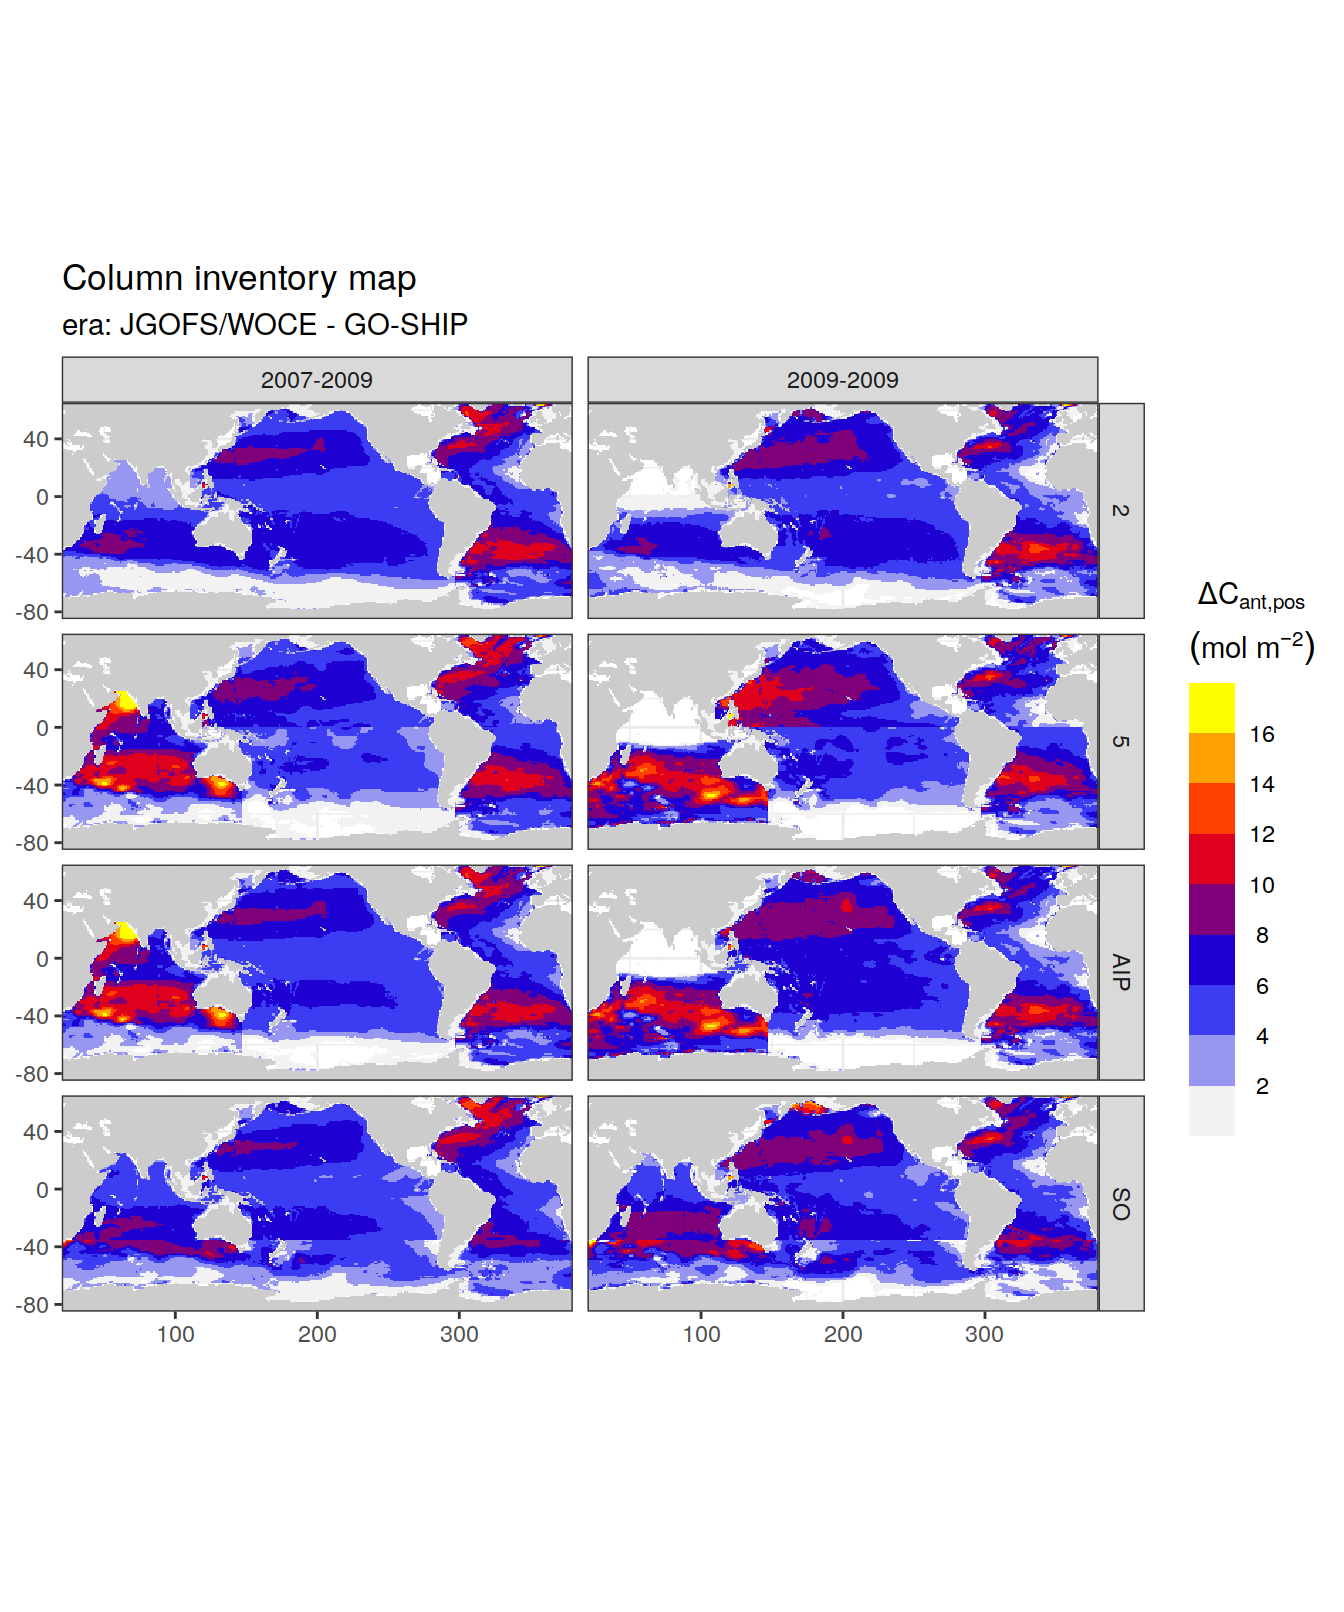
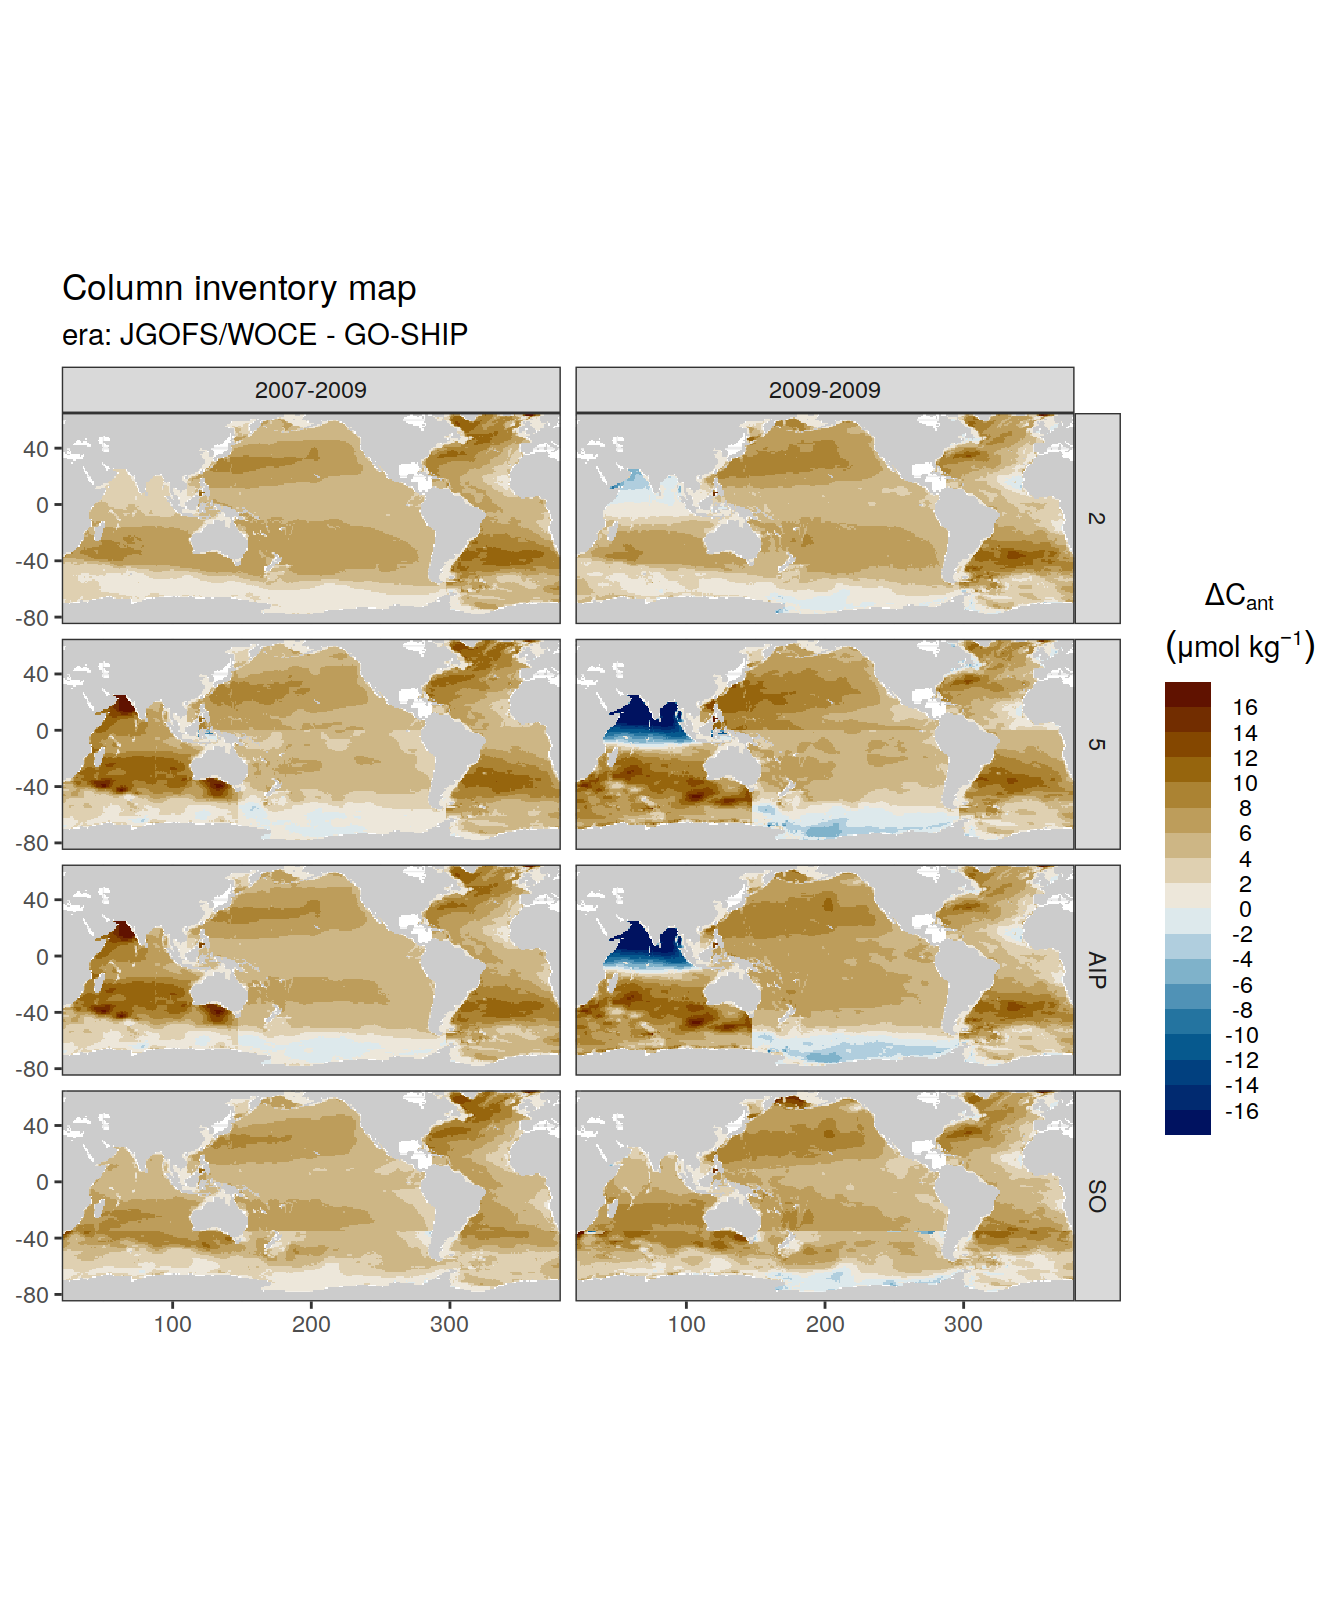
Build site.

diff --git a/docs/column_inventories.html b/docs/column_inventories.html
@@ -545,16 +545,16 @@ This reproducible <a href="http://rmarkdown.rstudio.com">R Markdown</a> analysis
 <div class="panel panel-default">
 <div class="panel-heading">
 <p class="panel-title">
-<a data-toggle="collapse" data-parent="#workflowr-checks" href="#strongRepositoryversionstrongahrefhttpsgithubcomjensdanielmuelleremlrobsanalysistreef642ef26fc0191e10773c02be67469985cc2322ftargetblankf642ef2a"> <span class="glyphicon glyphicon-ok text-success" aria-hidden="true"></span> <strong>Repository version:</strong> <a href="https://github.com/jens-daniel-mueller/emlr_obs_analysis/tree/f642ef26fc0191e10773c02be67469985cc2322f" target="_blank">f642ef2</a> </a>
+<a data-toggle="collapse" data-parent="#workflowr-checks" href="#strongRepositoryversionstrongahrefhttpsgithubcomjensdanielmuelleremlrobsanalysistree83f3e37e18646a8ca3899464edafb7c6eea59027targetblank83f3e37a"> <span class="glyphicon glyphicon-ok text-success" aria-hidden="true"></span> <strong>Repository version:</strong> <a href="https://github.com/jens-daniel-mueller/emlr_obs_analysis/tree/83f3e37e18646a8ca3899464edafb7c6eea59027" target="_blank">83f3e37</a> </a>
 </p>
 </div>
[2 lines of base64/hex data omitted]
 <div class="panel-body">
 <p>
 Great! You are using Git for version control. Tracking code development and connecting the code version to the results is critical for reproducibility.
 </p>
 <p>
-The results in this page were generated with repository version <a href="https://github.com/jens-daniel-mueller/emlr_obs_analysis/tree/f642ef26fc0191e10773c02be67469985cc2322f" target="_blank">f642ef2</a>. See the <em>Past versions</em> tab to see a history of the changes made to the R Markdown and HTML files.
+The results in this page were generated with repository version <a href="https://github.com/jens-daniel-mueller/emlr_obs_analysis/tree/83f3e37e18646a8ca3899464edafb7c6eea59027" target="_blank">83f3e37</a>. See the <em>Past versions</em> tab to see a history of the changes made to the R Markdown and HTML files.
 </p>
 <p>
 Note that you need to be careful to ensure that all relevant files for the analysis have been committed to Git prior to generating the results (you can use <code>wflow_publish</code> or <code>wflow_git_commit</code>). workflowr only checks the R Markdown file, but you know if there are other scripts or data files that it depends on. Below is the status of the Git repository when the results were generated:
@@ -607,6 +607,40 @@ Message
 </tr>
 </thead>
 <tbody>
+<tr>
+<td>
+Rmd
+</td>
+<td>
+<a href="https://github.com/jens-daniel-mueller/emlr_obs_analysis/blob/83f3e37e18646a8ca3899464edafb7c6eea59027/analysis/column_inventories.Rmd" target="_blank">83f3e37</a>
+</td>
+<td>
+jens-daniel-mueller
+</td>
+<td>
+2021-05-27
+</td>
+<td>
+plot bias maps
+</td>
+</tr>
+<tr>
+<td>
+html
+</td>
+<td>
+<a href="https://rawcdn.githack.com/jens-daniel-mueller/emlr_obs_analysis/e8bd251378925a96adffdbf2a7f707676c1e7258/docs/column_inventories.html" target="_blank">e8bd251</a>
+</td>
+<td>
+jens-daniel-mueller
+</td>
+<td>
+2021-05-27
+</td>
+<td>
+Build site.
+</td>
+</tr>
 <tr>
 <td>
 Rmd
@@ -1473,7 +1507,8 @@ jens-daniel-mueller
 </div>
 </div>
 <pre class="r"><code>cant_inv_all_bias %&gt;%
-  p_map_cant_inv(var = &quot;obs&quot;) +
+  p_map_cant_inv(var = &quot;obs&quot;,
+                 col = &quot;divergent&quot;) +
   facet_grid(MLR_basins ~ dup_era1)</code></pre>
 <p><img src="figure/column_inventories.Rmd/column_inventory_maps_output-1.png" width="672" style="display: block; margin: auto;" /></p>
 <p>
@@ -1498,6 +1533,17 @@ Date
 </tr>
 </thead>
 <tbody>
+<tr>
+<td>
+<a href="https://github.com/jens-daniel-mueller/emlr_obs_analysis/blob/e8bd251378925a96adffdbf2a7f707676c1e7258/docs/figure/column_inventories.Rmd/column_inventory_maps_output-1.png" target="_blank">e8bd251</a>
+</td>
+<td>
+jens-daniel-mueller
+</td>
+<td>
+2021-05-27
+</td>
+</tr>
 <tr>
 <td>
 <a href="https://github.com/jens-daniel-mueller/emlr_obs_analysis/blob/ea0153fc7b13907298f6978bb176a9c98fe244ed/docs/figure/column_inventories.Rmd/column_inventory_maps_output-1.png" target="_blank">ea0153f</a>
@@ -1541,6 +1587,17 @@ Date
 </tr>
 </thead>
 <tbody>
+<tr>
+<td>
+<a href="https://github.com/jens-daniel-mueller/emlr_obs_analysis/blob/e8bd251378925a96adffdbf2a7f707676c1e7258/docs/figure/column_inventories.Rmd/column_inventory_maps_output-2.png" target="_blank">e8bd251</a>
+</td>
+<td>
+jens-daniel-mueller
+</td>
+<td>
+2021-05-27
+</td>
+</tr>
 <tr>
 <td>
 <a href="https://github.com/jens-daniel-mueller/emlr_obs_analysis/blob/ea0153fc7b13907298f6978bb176a9c98fe244ed/docs/figure/column_inventories.Rmd/column_inventory_maps_output-2.png" target="_blank">ea0153f</a>
